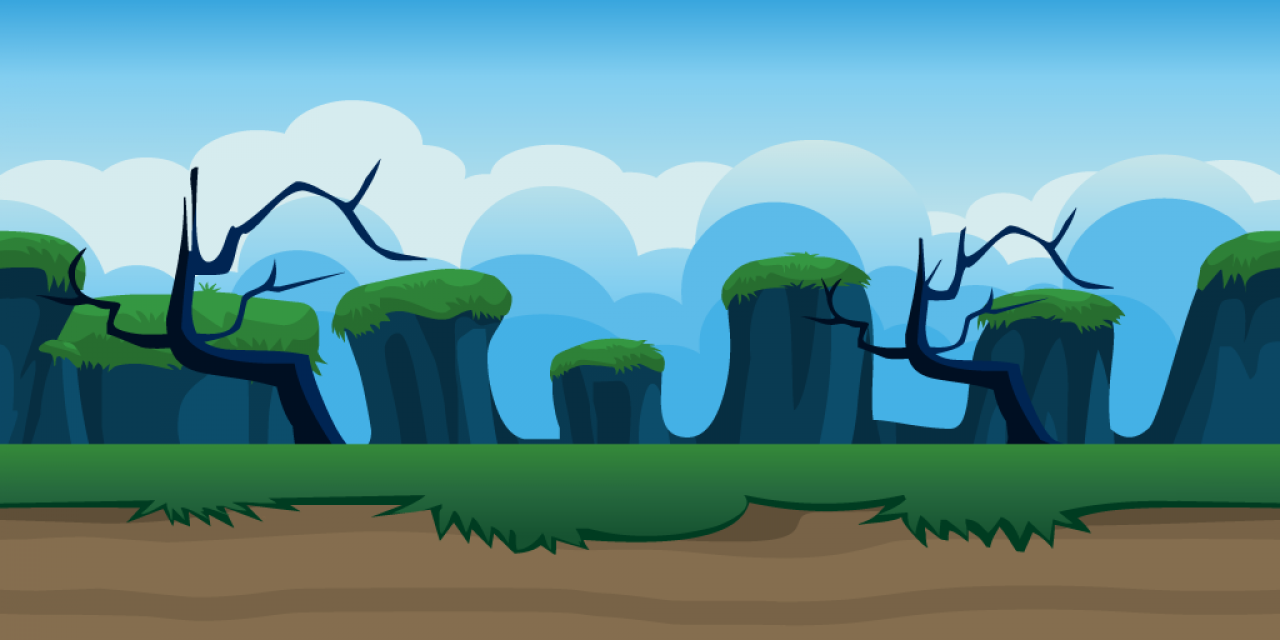
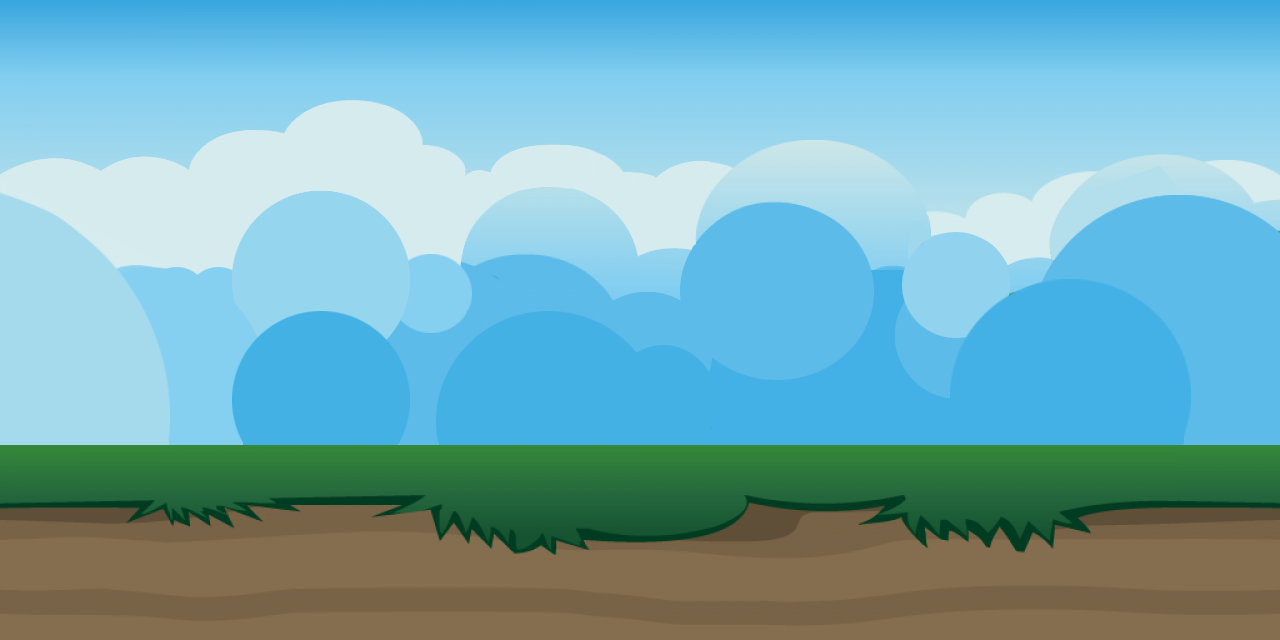
Adicionado o novo fundo e melhorado o erro de quando a moeda sai sem ser capturada não voltar a a ser apresentada na tela

Changed region(s): [[0.0, 0.25, 1.0, 0.7188], [0.9062, 0.2812, 0.9375, 0.3125]]

diff --git a/core/src/com/junglerun/game/JungleRun.java b/core/src/com/junglerun/game/JungleRun.java
@@ -154,7 +154,7 @@ public class JungleRun extends ApplicationAdapter {
 			movimentoMoeda -= velocidadeJogo;
 
 			//Se a moeda sair da tela sem ser capturada então
-			if (movimentoMoeda == -80){
+			if (movimentoMoeda < -5 ){
 				movimentoMoeda = larguraPadraoX;
 				//configurar uma altura padrão para a moeda
 				if (esc>altura_minima_moeda){
